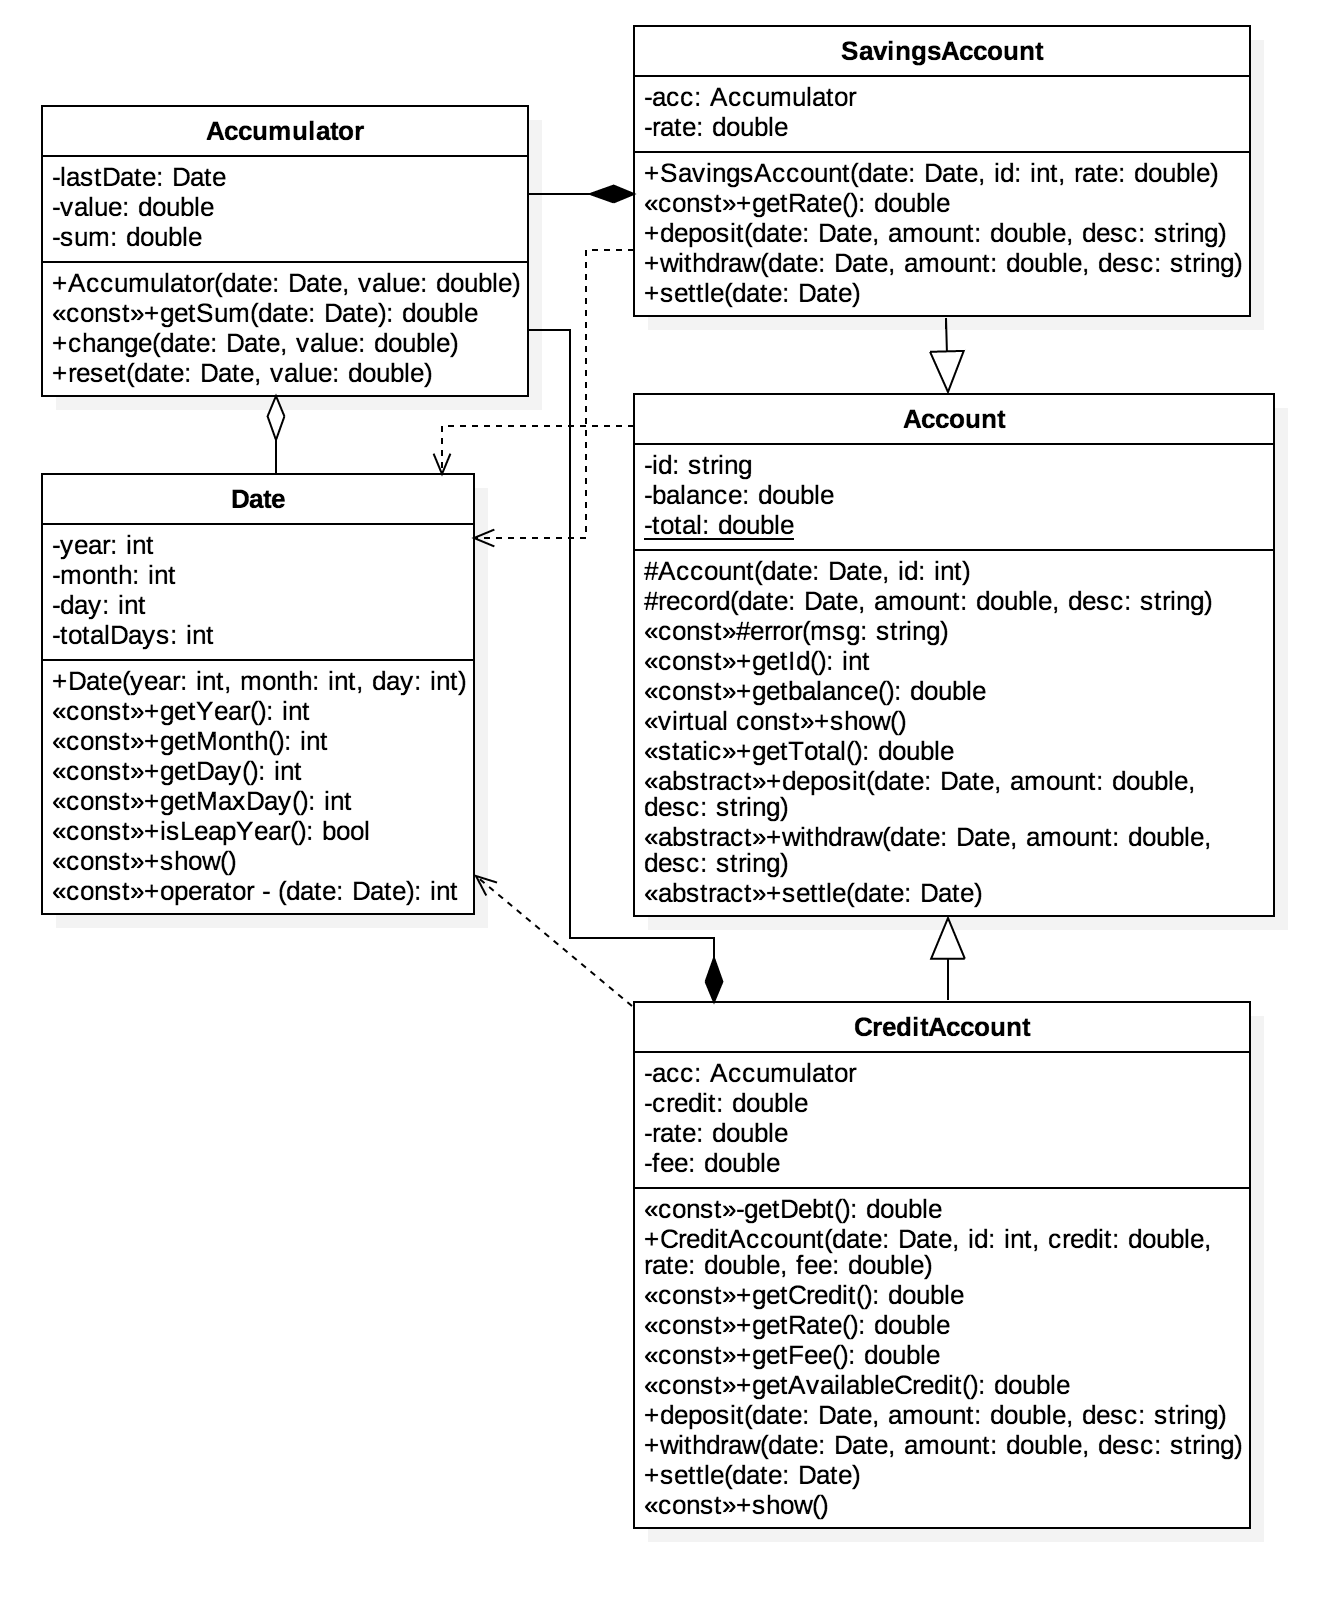
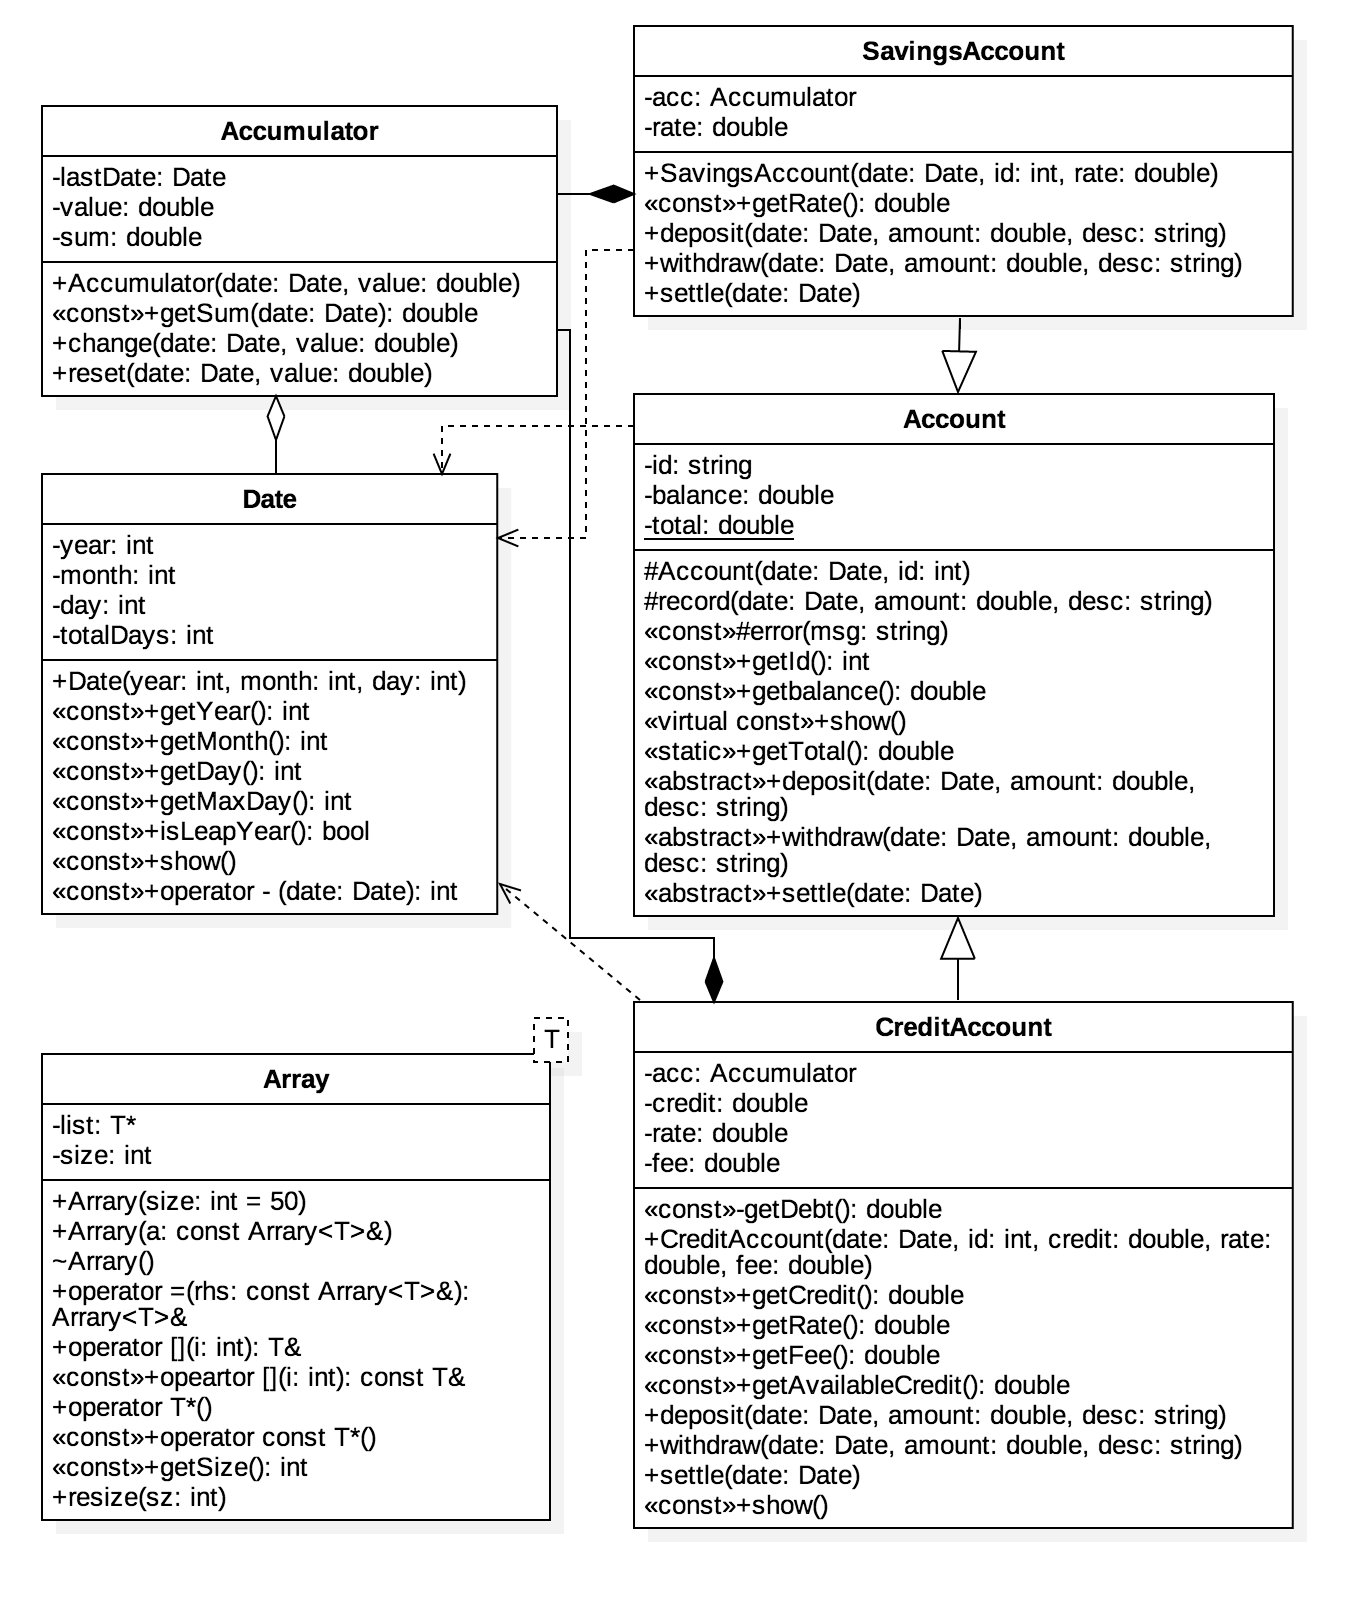
add array.h

diff --git a/bank.cpp b/bank.cpp
@@ -1,25 +1,40 @@
 #include "account.h"
+#include "array.h"
 #include <iostream>
 using namespace std;
 
 int main(){
 	Date date(2008,11,1);
 	//建立几个账户
-	SavingsAccount sa1(date,"赵晓的账户",0.015);
-	SavingsAccount sa2(date,"傻喵的账户",0.015);
-	CreditAccount ca(date,"傻狗的账户",10000,0.0005,50);
-	Account *accounts[]={&sa1,&sa2,&ca};
-	const int n=sizeof(accounts)/sizeof(Account *); //账户总数
-	cout<<"(d) deposit (w) withdraw (s) show (c) change day (n) next month (e) exit"<<endl;
+	// SavingsAccount sa1(date,"赵晓的账户",0.015);
+	// SavingsAccount sa2(date,"傻喵的账户",0.015);
+	// CreditAccount ca(date,"傻狗的账户",10000,0.0005,50);
+	Array<Account*> accounts(0);
+	//const int n=sizeof(accounts)/sizeof(Account *); //账户总数
+	cout<<"(a)add account (d) deposit (w) withdraw (s) show (c) change day (n) next month (e) exit"<<endl;
 	char cmd;
 	do{
 		date.show();
 		cout<<"\tTotal: "<<Account::getTotal()<<"\tcommand>";
+		char type;
 		int index, day;
-		double amount;
-		string desc;
+		double amount,credit,rate,fee;
+		Account *account;
+		string id,desc;
 		cin>>cmd;
 		switch (cmd){
+		case 'a':
+			cin>>type>>id;
+			if(type=='s'){
+				cin>>rate;
+				account=new SavingsAccount(date,id,rate);
+			}else{
+				cin>>credit>>rate>>fee;
+				account=new CreditAccount(date,id,credit,rate,fee);
+			}
+			accounts.resize(accounts.getSize()+1);
+			accounts[accounts.getSize()-1]=account;
+			break;
 		case 'd':
 			cin>>index>>amount;
 			getline(cin,desc);
@@ -31,7 +46,7 @@ int main(){
 			accounts[index]->withdraw(date,amount,desc);
 			break;
 		case 's':
-			for (int i=0;i<n;i++){
+			for (int i=0;i<accounts.getSize();i++){
 				cout<<"["<<i<<"]";
 				accounts[i]->show();
 				cout<<endl;
@@ -51,7 +66,7 @@ int main(){
 				date=Date(date.getYear()+1,1,1);
 			else
 				date=Date(date.getYear(),date.getMonth()+1,1);
-			for (int i=0;i<n;i++)
+			for (int i=0;i<accounts.getSize();i++)
 				accounts[i]->settle(date);
 			break;
 		}
@@ -75,5 +90,7 @@ int main(){
 	// }
 	// ca.settle(Date(2009,1,1));
 	// ca.show(); cout<<endl;
+	for (int i=0;i<accounts.getSize();i++)
+		delete accounts[i];
 	return 0;
 }

diff --git a/array.h b/array.h
@@ -1,0 +1,99 @@
+#ifndef ARRAY_H
+#define ARRAY_H
+#include<cassert>
+
+template <class T>
+class Array{
+private:
+	T* list;
+	int size;
+public:
+	Array(int size);
+	Array(const Array<T>& a);
+	~Array();
+	Array<T>& operator=(const Array<T>& rhs);
+	T& operator[](int i);
+	const T& operator[](int i) const;
+	operator T*();
+	operator const T*() const;
+	int getSize();
+	void resize(int sz);
+};
+
+template <class T>
+Array<T>:: Array(int sz){
+	assert(sz>=0);
+	size=sz;
+	list=new T[size];
+}
+
+template <class T>
+Array<T>:: Array(const Array<T>& a){
+	size=a.size;
+	list=new T[size];
+	for(int i=0;i<size;i++){
+		list[i]=a.list[i];
+	}
+}
+
+template <class T>
+Array<T>::~Array(){
+	delete [] list;
+}
+
+template <class T>
+Array<T>& Array<T>:: operator=(const Array<T>& rhs){
+	if(size!=rhs.size){
+		delete [] list;
+		size=rhs.size;
+		list=new T[size];
+	}
+	for(int i=0;i<size;i++){
+		list[i]=rhs.list[i];
+	}
+	return *this;
+}
+
+template <class T>
+T &Array<T>::operator[](int i){
+	assert(i>=0 && i<size);
+	return list[i];
+}
+
+template <class T>
+const T &Array<T>::operator[](int i)const {
+	assert(i>=0 && i<size);
+	return list[i];
+}
+
+template <class T>
+Array<T>::operator T*(){
+	return list;
+}
+
+template <class T>
+Array<T>::operator const T*()const{
+	return list;
+}
+
+template <class T>
+int Array<T>::getSize(){
+	return size;
+}
+
+template <class T>
+void Array<T>::resize(int sz){
+	assert(sz>=0);
+	if (sz==size)
+		return;
+	int n=(sz<size)?sz:size;
+	T* newlist=new T[sz];
+	for(int i=0;i<n;i++){
+		newlist[i]=list[i];
+	}
+	delete [] list;
+	list=newlist;
+	size=sz;
+}
+
+#endif
